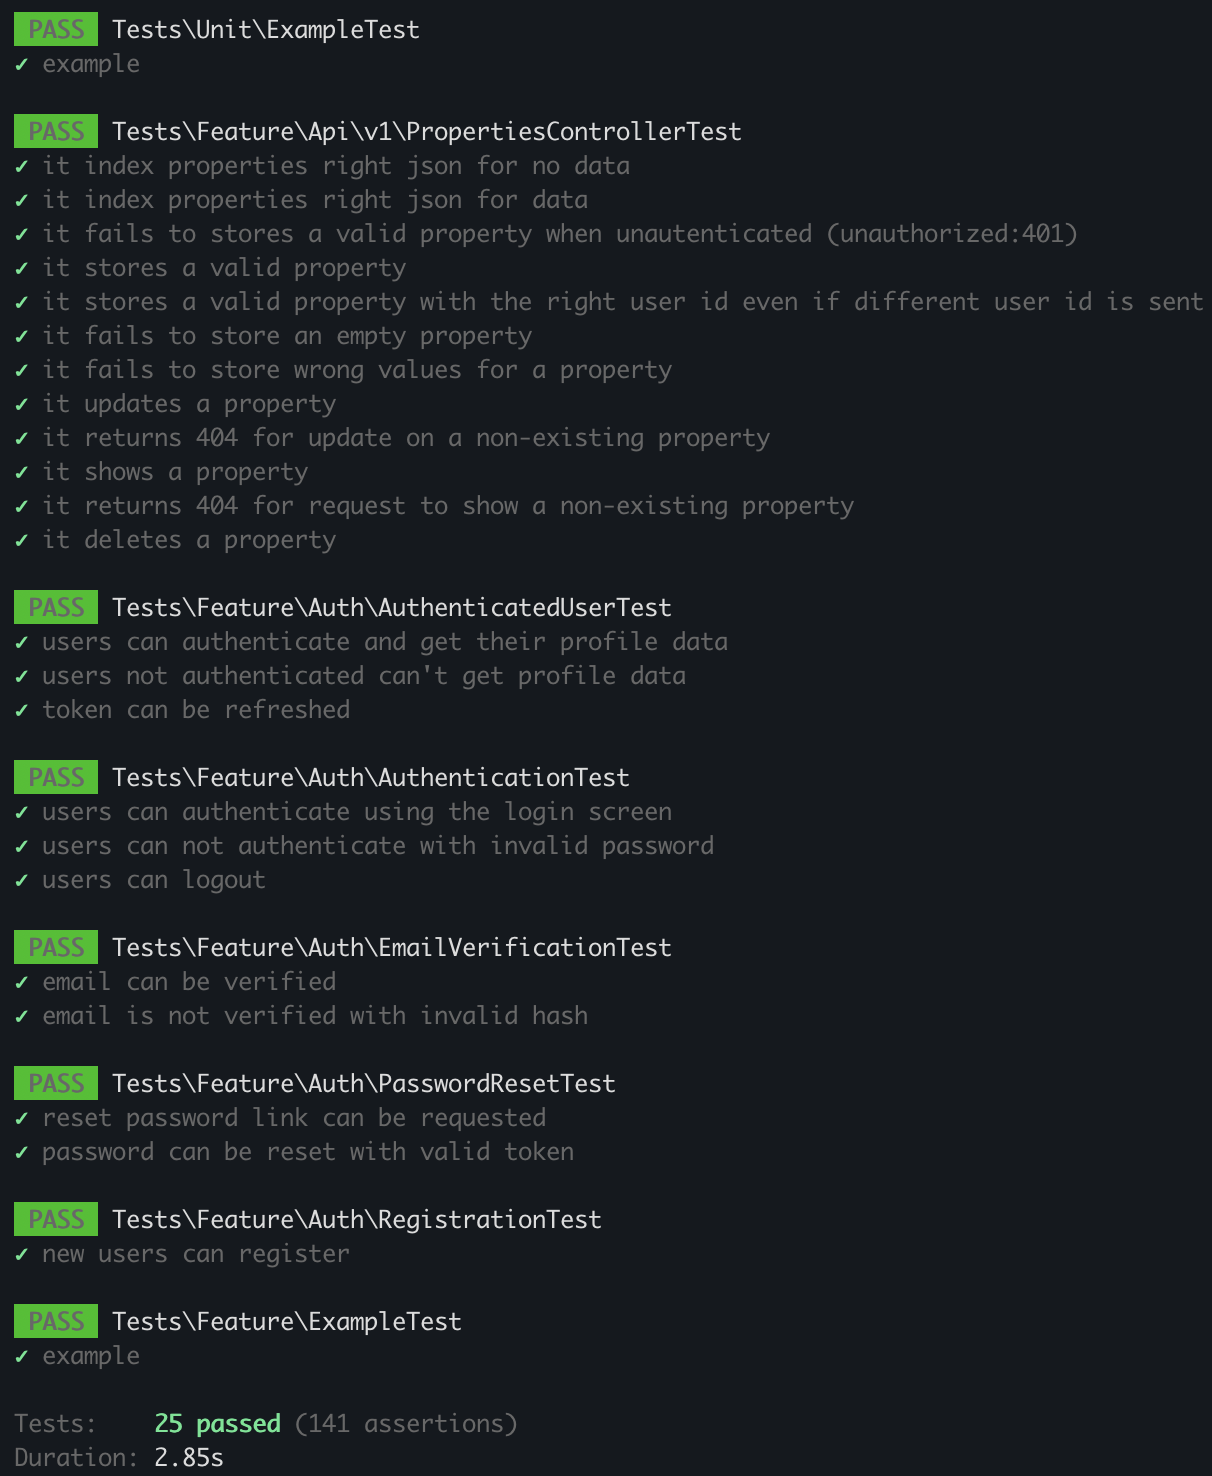
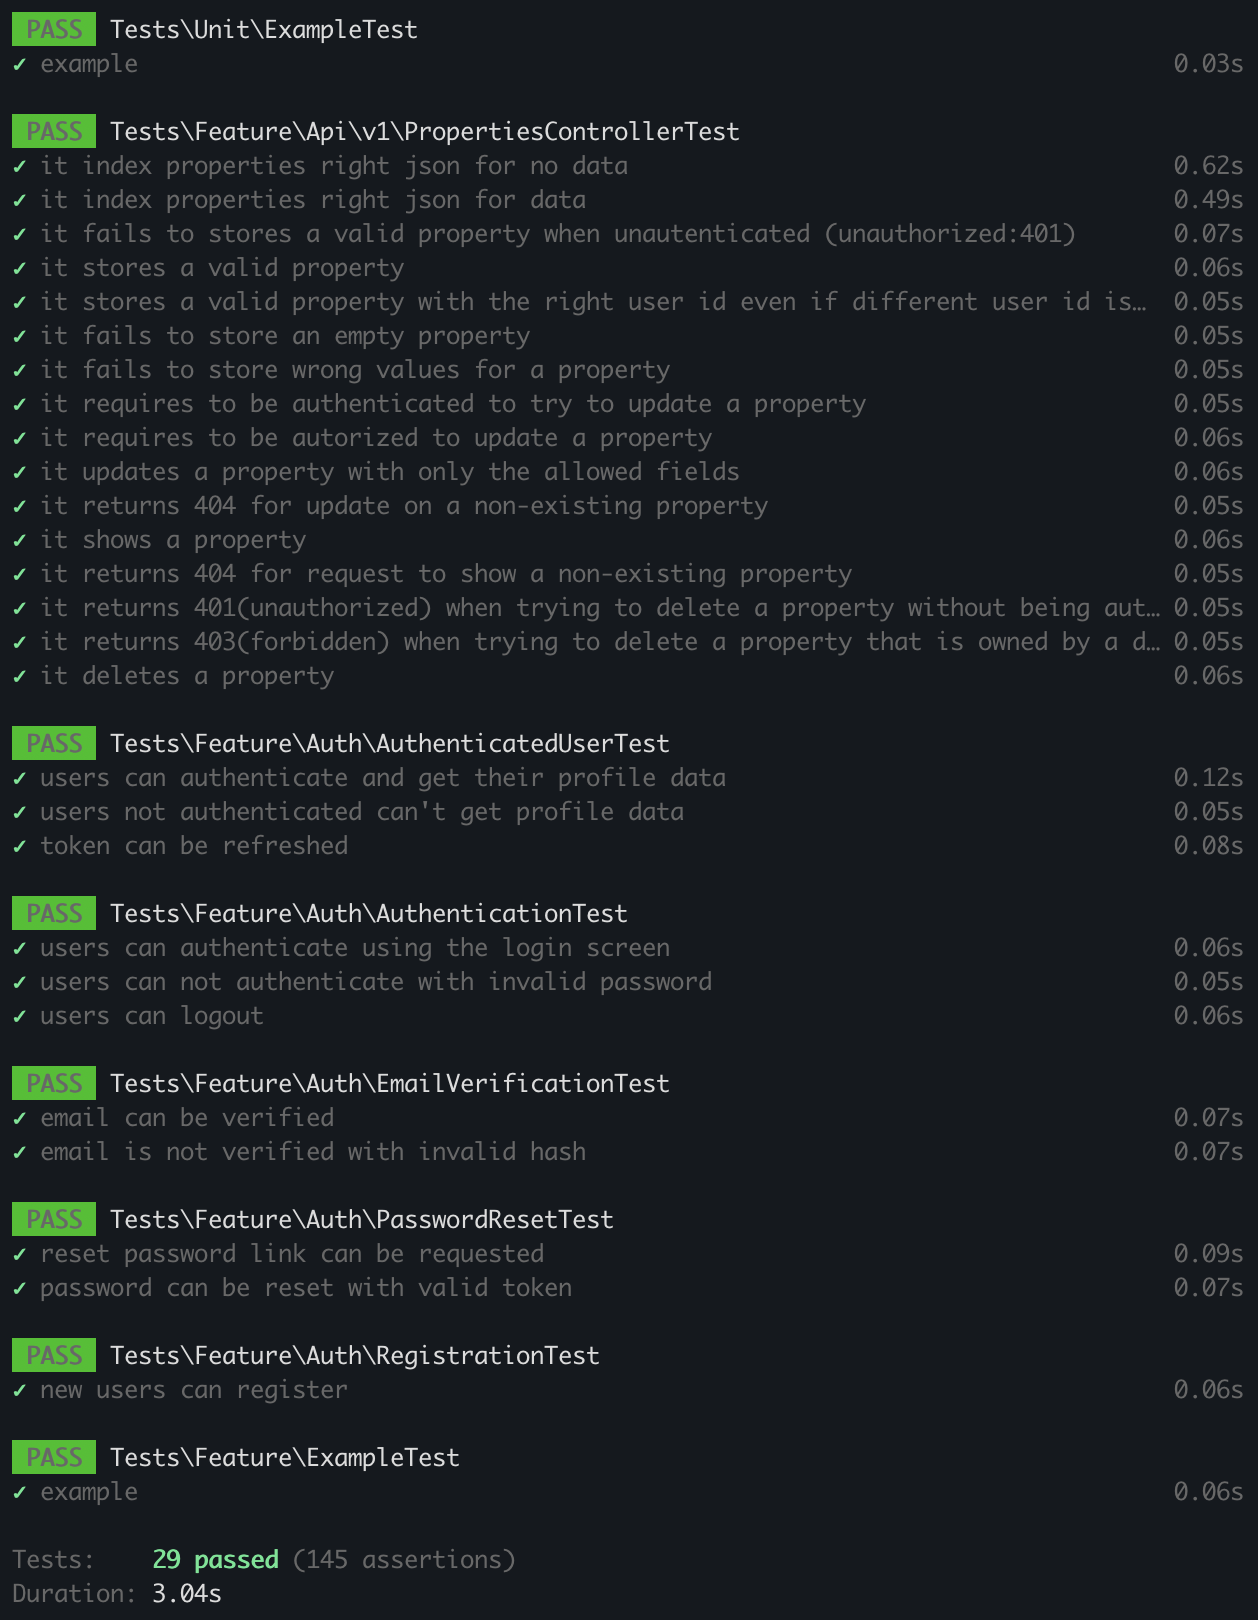
auth rules for property delete + api docs updates

diff --git a/tests/Feature/Api/v1/PropertiesControllerTest.php b/tests/Feature/Api/v1/PropertiesControllerTest.php
@@ -155,13 +155,11 @@ it('index properties right json for data', function (): void {
 });
 
 it('fails to stores a valid property when unautenticated (unauthorized:401)', function (): void {
-    $user = User::factory()->create();
-
     // send request to create
     $recordData = [
         'name' => 'Great Villa',
-        'owner_id' => $user->id,
-        'status_id' => fake()->randomElement(PropertyStatus::values()),
+        'owner_id' => 999,
+        'status_id' => 999,
     ];
     $response = $this->postJson(route('api.v1.properties.store'), $recordData);
 
@@ -250,11 +248,8 @@ it('fails to store wrong values for a property', function (): void {
 });
 
 it('requires to be authenticated to try to update a property', function (): void {
-    // make a property
-    $property = Property::factory()->create();
-
     // send request to update
-    $response = $this->putJson(route('api.v1.properties.update', $property->id), [
+    $response = $this->putJson(route('api.v1.properties.update', 999), [
         'name' => 'Moon Villa',
         'status_id' => PropertyStatus::Inactive->value,
     ]);
@@ -345,16 +340,41 @@ it('returns 404 for request to show a non-existing property', function (): void 
     $response->assertStatus(Response::HTTP_NOT_FOUND);
 });
 
-it('deletes a property', function (): void {
+it('returns 401(unauthorized) when trying to delete a property without being authenticated', function (): void {
+    // send request to delete
+    $response = $this->deleteJson(route('api.v1.properties.destroy', 999));
+
+    $response->assertUnauthorized();
+});
+
+
+it('returns 403(forbidden) when trying to delete a property that is owned by a different user', function (): void {
     $property = Property::factory()->create();
+    $user = User::factory()->create();
 
     // send request to delete
-    $response = $this->deleteJson(route('api.v1.properties.destroy', $property->id));
+    $response = $this->actingAs($user)->deleteJson(route('api.v1.properties.destroy', $property->id));
+
+    $response->assertForbidden();
+});
+
+it('deletes a property', function (): void {
+    $user = User::factory()->create();
+    $propertyData = [
+        'name' => 'Sea Villa',
+        'owner_id' => $user->id,
+        'status_id' => PropertyStatus::Active->value,
+    ];
+
+    $property = Property::factory()->create($propertyData);
+
+    // send request to delete
+    $response = $this->actingAs($user)->deleteJson(route('api.v1.properties.destroy', $property->id));
 
     $response->assertStatus(Response::HTTP_NO_CONTENT);
     $this->assertDatabaseMissing((new Property)->getTable(), ['id' => $property->id]);
 
     // send request to delete again
-    $response = $this->deleteJson(route('api.v1.properties.destroy', $property->id));
+    $response = $this->actingAs($user)->deleteJson(route('api.v1.properties.destroy', $property->id));
     $response->assertStatus(Response::HTTP_NOT_FOUND);
 });

diff --git a/app/Http/Controllers/Api/v1/PropertyController.php b/app/Http/Controllers/Api/v1/PropertyController.php
@@ -19,7 +19,8 @@ class PropertyController extends Controller
     public function __construct()
     {
         // the user needs to be logged in for these methods to be accessed
-        $this->middleware('auth:api')->only('store', 'update');
+        // if not authenticated he'll receive a 401/unauthorized before reaching the method, thus avoiding unnecessary model binding, validations...
+        $this->middleware('auth:api')->only('store', 'update', 'destroy');
     }
 
     /**
@@ -99,7 +100,7 @@ class PropertyController extends Controller
     }
 
     /**
-     * Store a new property
+     * Store a property
      *
      * `slug` field is set automatically using the `name` field when the status is set to <b>active</b> (value 1). Once set it can't be changed.
      */
@@ -184,7 +185,7 @@ class PropertyController extends Controller
     /**
      * Update a property
      *
-     * @throws \Illuminate\Auth\Access\AuthorizationException|\Illuminate\Auth\Access\AuthenticationException
+     * @throws \Illuminate\Auth\Access\AuthorizationException
      */
     public function update(UpdatePropertyRequest $request, Property $property, PropertyRepository $propertyRepository)
     {
@@ -195,10 +196,13 @@ class PropertyController extends Controller
     }
 
     /**
-     * Remove a property
+     * Delete a property
+     * 
+     * @throws \Illuminate\Auth\Access\AuthorizationException
      */
     public function destroy(Property $property)
     {
+        Gate::authorize('delete', $property);
         $property->delete();
 
         return response([])->setStatusCode(Response::HTTP_NO_CONTENT);

diff --git a/app/Policies/PropertyPolicy.php b/app/Policies/PropertyPolicy.php
@@ -44,7 +44,7 @@ class PropertyPolicy
      */
     public function delete(User $user, Property $property): bool
     {
-        return false;
+        return $user->id === $property->owner_id;;
     }
 
     /**
